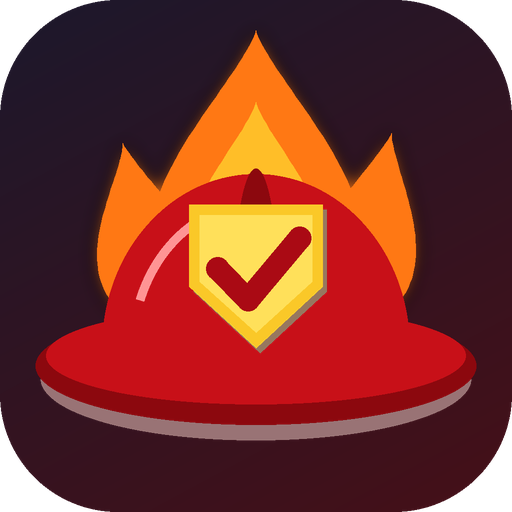
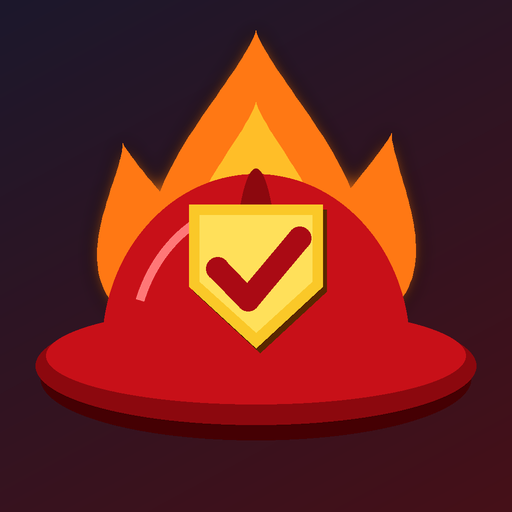
Icono a sangre (sin esquinas transparentes) y fuera las bandas de colores
Los iconos ocupan todo el cuadrado, sin bordes blancos en el ordenador ni en el móvil: el sistema les pone
la forma redondeada. Se quita la banda reflectante de la cabecera y de la tarjeta «De aquí a tu plaza».

Claude-Session: https://claude.ai/code/session_016PZfzSNx3ze7McCgeoVxJ8

diff --git a/css/app.css b/css/app.css
@@ -227,8 +227,7 @@ h3.fuera { margin: 18px 0 2px; font-size: 15px; }
 
 /* ---------- estética de bombero ---------- */
 .top { background: var(--card); border-bottom: 0; box-shadow: var(--sombra); }
-.top::after { content: ""; position: absolute; left: 0; right: 0; bottom: -6px; height: 6px;
-  background: repeating-linear-gradient(90deg, var(--oro) 0 22px, #D9DCDF 22px 34px); opacity: .95; }
+
 .marca span { font-size: 20px; letter-spacing: .02em; text-transform: uppercase; }
 .marca img { width: 32px; height: 32px; border-radius: 9px; }
 .puntos { background: var(--accbg); box-shadow: none; padding: 5px 12px; min-width: 64px; }
@@ -248,8 +247,7 @@ main { padding-top: 22px; }
 /* De aquí a tu plaza */
 .camino { position: relative; overflow: hidden; color: #fff; padding: 18px 18px 16px; margin: 14px 0;
   background: radial-gradient(120% 140% at 100% 0%, #E5383B 0%, #B5121B 45%, #5C0A10 100%); box-shadow: 0 10px 26px rgba(150, 15, 25, .28); }
-.camino::after { content: ""; position: absolute; left: 0; right: 0; bottom: 0; height: 5px;
-  background: repeating-linear-gradient(90deg, var(--oro) 0 18px, #E9ECEF 18px 28px); opacity: .9; }
+
 .cam-top { display: flex; justify-content: space-between; align-items: center; gap: 8px; }
 .cam-tit { font-size: 15px; letter-spacing: .12em; text-transform: uppercase; opacity: .9; }
 .racha { font-size: 13px; font-weight: 600; background: rgba(255,255,255,.16); padding: 3px 10px; border-radius: 999px; }

diff --git a/sw.js b/sw.js
@@ -1,7 +1,7 @@
 // Service worker: la app abre sin conexión. Lo propio, primero red (para tener siempre la última versión) y si no hay
 // conexión, caché. Las librerías de Firebase (gstatic) no cambian de versión: primero caché.
 // Los datos no pasan por aquí: los guarda y sincroniza Firestore con su propia caché.
-const CACHE = "pokeplanificador-v11";
+const CACHE = "pokeplanificador-v12";
 const CORE = ["./", "index.html", "css/app.css", "js/app.js", "js/engine.js", "js/store.js", "js/temario.js", "js/docs_esp.js",
   "firebase-config.js", "manifest.webmanifest", "icons/icon-192.png"];
 
